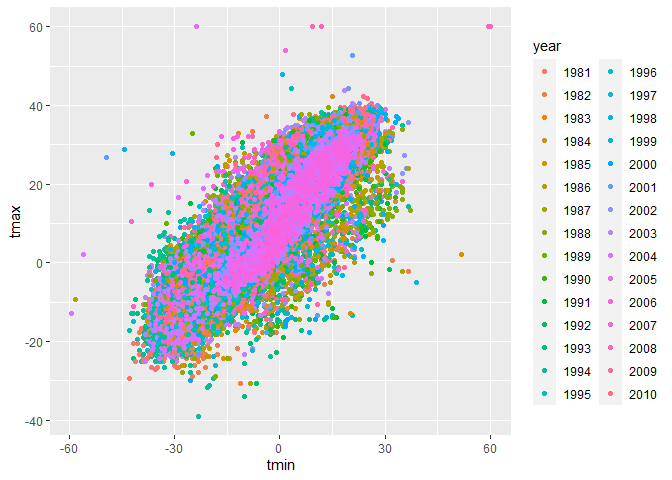
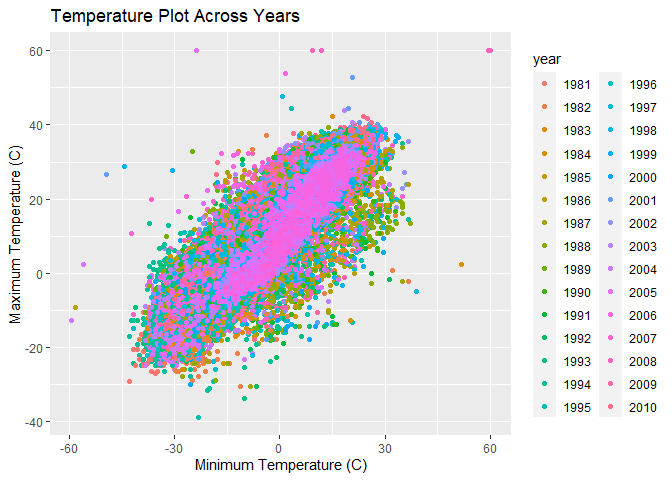
Adding label to question 3 graph

diff --git a/p8105_hw3_hw2850.md b/p8105_hw3_hw2850.md
@@ -182,7 +182,12 @@ There are few outliers which could denote extreme weather.
 
 ``` r
 ggplot(ny_noaa_tidy, aes(x = tmin, y = tmax), group = week)+
-  geom_point(aes(color = year))
+  geom_point(aes(color = year))+
+  labs(
+    title = "Temperature Plot Across Years",
+    x = "Minimum Temperature (C)",
+    y = "Maximum Temperature (C)"
+  )
 ```
 
     ## Warning: Removed 1136276 rows containing missing values (geom_point).
